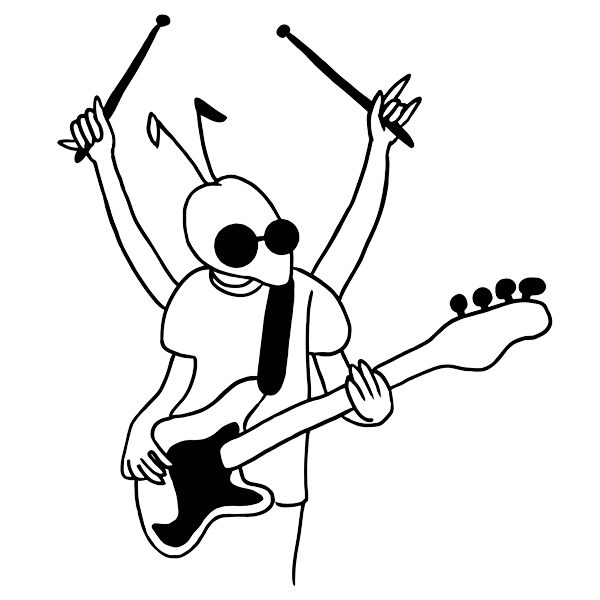
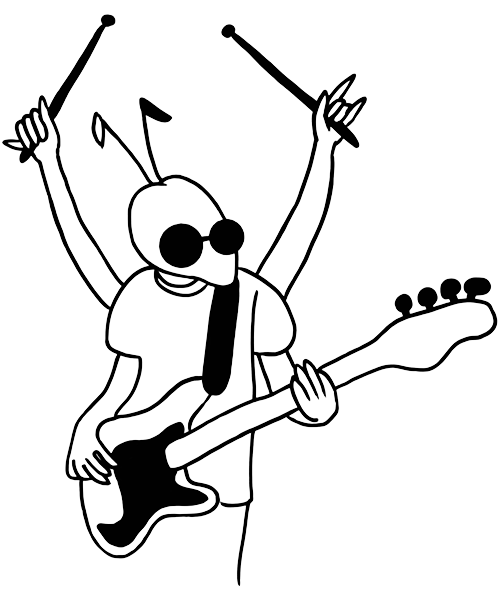
ajout autres plateformes home

diff --git a/style.css b/style.css
@@ -71,17 +71,22 @@
     display: flex;
     flex-direction: row;
     width: 100%;
+    justify-content: start;
 }
 
 .acceuil_titre_h1 {
     font-size: 8vw;
     font-family: "lobster";
     white-space: break-spaces;
+    text-align: start;
+    
+
 
 }
 .acceuil_titre_img{
-    width: 26%;
+    width: 22%;
     height: fit-content;
+    
 }
 
 
@@ -305,14 +310,19 @@ footer {
   .boutton {
       display: block;
       margin: 0 auto 0 auto;
-      
       width: fit-content;
   }
+
+  .boutton svg:hover {
+    width: 4vw;
+    transition: 500ms;
+}
   .boutton svg {
-      width: 10%;
       display: block;
-        margin: 0 auto 0 auto;
+        margin: -110% auto 0 auto;
     rotate: -90deg;
+    width: 2.5vw;
+    transition: 500ms;
   }
   .acceuil_plateforme_h3 {
       margin-top: 200px;
@@ -328,6 +338,12 @@ footer {
       
       justify-content: space-between;
       
+  }
+
+  .acceuil_plateforme_div_img img{
+      width: 25vw;
+      display: block;
+      margin: 0 auto 0 auto;
   }
 
   .acceuil_plateforme_btn{
@@ -349,6 +365,7 @@ footer {
       text-decoration: none;
       letter-spacing: 1px;
       overflow: hidden;
+      height: fit-content;
   }
 
   .btn_test img{
@@ -408,6 +425,7 @@ footer {
     text-decoration: none;
     letter-spacing: 1px;
     overflow: hidden;
+    height: fit-content;
     
 
 }
@@ -457,5 +475,133 @@ footer {
     overflow: hidden;
     
 
+}
+/* BOUTON3 */
+.btn_test3{
+    position: relative;
+    display: inline-flex;
+    padding: 10px 30px;
+    border-radius: 30px;
+    
+    text-decoration: none;
+    letter-spacing: 1px;
+    overflow: hidden;
+    height: fit-content;
+
+}
+
+.btn_test3 img{
+    position: relative;
+    z-index: 1;
+    width: 10vw;
+    height: fit-content;
+    transition: 500ms;
+}
+
+.btn_test3 img:hover{
+    position: relative;
+    z-index: 1;
+    width: 12vw;
+    height: fit-content;
+    transition: 500ms;
+  }
+
+.btn_test3::before{
+    content: '';
+    position: absolute;
+    top: var(--y);
+    left: var(--x);
+    transform: translate(-50%, -50%);
+    width: 0;
+    height: 0;
+    border-radius: 50%;
+    background:black;
+    transition: width 0.5s, height 0.5s;
+}
+
+.btn_test3:hover::before{
+    width: 200%;
+    height: 200%;
+}
+
+.btn_test3{
+    position: relative;
+    display: inline-flex;
+    padding: 10px 30px;
+    border-radius: 30px;
+    
+    text-decoration: none;
+    letter-spacing: 1px;
+    overflow: hidden;
+    
+
+}
+/* BOUTON3 */
+
+/* BOUTON4 */
+.btn_test4{
+    position: relative;
+    display: inline-flex;
+    padding: 10px 30px;
+    border-radius: 30px;
+    
+    text-decoration: none;
+    letter-spacing: 1px;
+    overflow: hidden;
+    height: fit-content;
+
+}
+
+.btn_test4 img{
+    position: relative;
+    z-index: 1;
+    width: 10vw;
+    height: fit-content;
+    transition: 500ms;
+}
+
+.btn_test4 img:hover{
+    position: relative;
+    z-index: 1;
+    width: 12vw;
+    height: fit-content;
+    transition: 500ms;
+    
+  }
+
+.btn_test4::before{
+    content: '';
+    position: absolute;
+    top: var(--y);
+    left: var(--x);
+    transform: translate(-50%, -50%);
+    width: 0;
+    height: 0;
+    border-radius: 50%;
+    background:black;
+    transition: width 0.5s, height 0.5s;
+}
+
+.btn_test4:hover::before{
+    width: 200%;
+    height: 200%;
+}
+
+.btn_test4{
+    position: relative;
+    display: inline-flex;
+    padding: 10px 30px;
+    border-radius: 30px;
+    
+    text-decoration: none;
+    letter-spacing: 1px;
+    overflow: hidden;
+    
+
+}
+/* BOUTON4 */
+
+#btn_plateforme_bas {
+    margin: 0 30% 0 30%;
 }
   /* acceuil plateforme */

diff --git a/index.html b/index.html
@@ -55,19 +55,24 @@
 
         <div class="acceuil">
             <div class="acceuil_titre">
+
                 <h1 class="acceuil_titre_h1">PUNCHY <br> PARASITES
                 </h1>
                 <img class="acceuil_titre_img" src="sources/img/home/punchyparasite_noir_sur_blanc.png"
                     alt="logo_parasite">
-                    
+
+
+                
             </div>
 
             <a href="#plateformes" class="boutton">
-                <svg width="752pt" height="752pt" version="1.1" viewBox="0 0 752 752" xmlns="http://www.w3.org/2000/svg">
-                    <path d="m488.24 546.96-170.96-170.96 170.96-170.96-26.992-26.52-197.48 197.48 197.48 197.48z"/>
-                   </svg>
-            </a>
-            
+                    <svg width="752pt" height="100%" version="1.1" viewBox="0 0 752 752"
+                        xmlns="http://www.w3.org/2000/svg">
+                        <path
+                            d="m488.24 546.96-170.96-170.96 170.96-170.96-26.992-26.52-197.48 197.48 197.48 197.48z" />
+                    </svg>
+                </a>
+
         </div>
 
 
@@ -75,10 +80,22 @@
         <section class="acceuil_plateforme">
             <h3 id="plateformes" class="acceuil_plateforme_h3">Want to take a look ?</h3>
             <div class="acceuil_plateforme_div_img">
-                <a class="btn_test" href="https://music.apple.com/ch/artist/punchy-parasites/1585869160?l=fr" target="blank"><img src="sources/img/logo/apple_music.png" alt=""></a>
-                <a class="btn_test2" href="https://open.spotify.com/artist/1VDN84sLHYRbWoV9iwU1q3?si=p4GPX699TymoOeqdL5qfEg&referral=labelaffiliate&nd=1" target="blank"><img src="sources/img/logo/spotify.png" alt=""></a>
+                <a class="btn_test" href="https://music.apple.com/ch/artist/punchy-parasites/1585869160?l=fr"
+                    target="blank"><img src="sources/img/logo/apple_music.png" alt=""></a>
+                    <img src="sources/img/home/punchyparasite_noir_sur_blanc.png" alt="">
+                <a class="btn_test2"
+                    href="https://open.spotify.com/artist/1VDN84sLHYRbWoV9iwU1q3?si=p4GPX699TymoOeqdL5qfEg&referral=labelaffiliate&nd=1"
+                    target="blank"><img src="sources/img/logo/spotify.png" alt=""></a>
             </div>
-            
+
+            <div id="btn_plateforme_bas" class="acceuil_plateforme_div_img">
+                <a class="btn_test3" href="https://www.deezer.com/fr/artist/145508882?deferredFl=1"
+                    target="blank"><img src="sources/img/logo/deezer.png" alt=""></a>
+                <a class="btn_test4"
+                    href="https://https://www.youtube.com/channel/UCzdwX57fv7salEI3YKCnU7A"
+                    target="blank"><img src="sources/img/logo/youtube.png" alt=""></a>
+            </div>
+
         </section>
     </span>
 

diff --git a/butnhover.js b/butnhover.js
@@ -2,6 +2,8 @@ function btninit() {
     
     const btn = document.querySelector('.btn_test');
     const btn2 = document.querySelector('.btn_test2');
+    const btn3 = document.querySelector('.btn_test3');
+    const btn4 = document.querySelector('.btn_test4');
     
 
     btn.onmousemove = function (e) {
@@ -22,6 +24,21 @@ function btninit() {
         btn2.style.setProperty('--y', x + 'px');
     }
 
+    btn3.onmousemove = function (e) {
+        const x = e.pageX - btn3.offsetLeft;
+        const y = e.pageY - btn3.offsetTop;
+
+        btn3.style.setProperty('--x', x + 'px');
+        btn3.style.setProperty('--y', x + 'px');
+    }
+
+    btn4.onmousemove = function (e) {
+        const x = e.pageX - btn4.offsetLeft;
+        const y = e.pageY - btn4.offsetTop;
+
+        btn4.style.setProperty('--x', x + 'px');
+        btn4.style.setProperty('--y', x + 'px');
+    }
 };
 
 window.onload = btninit(); //rappel la fonction modalinit et la reload au changement de page
